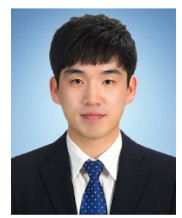
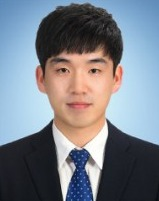
Update alumni photos and add degree periods

diff --git a/data.js b/data.js
@@ -254,17 +254,18 @@ const SITE = {
 
   /* ---------- 졸업생 (Alumni 페이지) ----------
      degree: 학위 (예: "석사 졸업") / period: 재학 기간 (예: "2022.03~2024.02") / topic: 연구실에서 한 연구 분야
+     학위가 둘 이상이면 degree, period 대신 degrees: [{ degree: "...", period: "..." }, { ... }] 로 적습니다 (성정환 참고)
      company: 현재 소속(취업한 곳) / job: 현재 하는 일
      logo: 회사 이름이 들어간 로고 그림. 있으면 회사 이름 글자 대신 로고가 나옵니다. 없으면 "" (글자로 표시) */
   alumniNote: "졸업생들은 배터리 소재 · 셀 · 완성차 등 이차전지 분야 주요 기업으로 진출했습니다.",
   alumni: [
-    { name: "박재영", degree: "석사 졸업", period: "", topic: "", company: "엘앤에프", logo: "images/logos/lnf-ci.png", job: "", photo: "images/people/park-jaeyoung.jpg" },
+    { name: "박재영", degree: "석사 졸업", period: "2016.03~2018.02", topic: "", company: "엘앤에프", logo: "images/logos/lnf-ci.png", job: "", photo: "images/people/park-jaeyoung.jpg" },
     { name: "김민주", degree: "석사 졸업", period: "2018.09~2020.09", topic: "", company: "롯데에너지머티리얼즈", logo: "images/logos/lotte-em.png", job: "", photo: "images/people/kim-minju.jpg" },
     { name: "조성찬", degree: "석사 졸업", period: "2019.09~2021.06", topic: "", company: "LG에너지솔루션", logo: "images/logos/lg-es.svg", job: "", photo: "images/people/cho-seongchan.jpg" },
     { name: "최익현", degree: "석사 졸업", period: "2020.03~2022.02", topic: "", company: "현대자동차", logo: "images/logos/hyundai-motor.svg", job: "", photo: "images/people/choi-ikhyeon.jpg" },
     { name: "홍정원", degree: "석사 졸업", period: "2021.09~2023.06", topic: "", company: "LG화학", logo: "images/logos/lg-chem.svg", job: "", photo: "images/people/hong-jeongwon.jpg" },
     { name: "조영수", degree: "석사 졸업", period: "2022.03~2024.02", topic: "", company: "LG에너지솔루션", logo: "images/logos/lg-es.svg", job: "", photo: "images/people/cho-youngsu.jpg" },
-    { name: "성정환", degree: "박사 졸업", period: "", topic: "", company: "SK On", logo: "images/logos/sk-on.png", job: "", photo: "images/people/seong-jeonghwan.jpg" },
+    { name: "성정환", degrees: [{ degree: "석사 졸업", period: "2018.03~2020.02" }, { degree: "박사 졸업", period: "2021.03~2025.02" }], topic: "", company: "SK On", logo: "images/logos/sk-on.png", job: "", photo: "images/people/seong-jeonghwan.jpg" },
   ],
 
   /* ---------- 특허 · 학회발표 ----------

diff --git a/style.css b/style.css
@@ -479,6 +479,7 @@ body[data-page="contact"] .footer-cta { display: none; }
 .alum-main b { display: block; font-size: 1.15rem; }
 .alum-main span { display: block; color: var(--blue); font-size: .88rem; font-weight: 500; }
 .alum-main span.period { color: var(--muted); font-weight: 400; }
+.alum-main .period + span { margin-top: 6px; }   /* 학위가 둘 이상일 때 묶음 사이 간격 */
 .alum dl { display: grid; grid-template-columns: 76px 1fr; gap: 4px 14px; margin: 0; padding-left: 22px; border-left: 1px solid var(--line); font-size: .92rem; }
 .alum dt { color: var(--muted); }
 .alum dd { margin: 0; }
@@ -624,7 +625,7 @@ body[data-page="contact"] .footer-cta { display: none; }
 }
 /* ---------- 졸업생: 모바일에서도 이름 바로 옆에 현 소속이 오도록 ---------- */
 @media (max-width: 760px) {
-  .alum { grid-template-columns: 52px 98px minmax(0, 1fr); gap: 12px; padding: 16px 4px; }   /* 이름 칸 폭을 고정해 세로선이 줄마다 같은 자리에 오게 함 */
+  .alum { grid-template-columns: 52px 104px minmax(0, 1fr); gap: 12px; padding: 16px 4px; }   /* 이름 칸 폭을 고정해 세로선이 줄마다 같은 자리에 오게 함 */
   .alum-main span.period { font-size: .74rem; }
   .alum .photo { width: 52px; height: 52px; }
   .alum-main b { font-size: 1.05rem; white-space: nowrap; }

diff --git a/main.js b/main.js
@@ -459,7 +459,7 @@
     $("alumniList").innerHTML = (SITE.alumniNote ? `<p class="alum-note">${esc(SITE.alumniNote)}</p>` : "") + SITE.alumni.map((a) => `
       <article class="alum">
         ${img(a.photo, a.name, "photo", "사진")}
-        <div class="alum-main"><b>${esc(a.name)}</b>${a.degree ? `<span>${esc(a.degree)}</span>` : ""}${a.period ? `<span class="period">${esc(a.period)}</span>` : ""}</div>
+        <div class="alum-main"><b>${esc(a.name)}</b>${(a.degrees || [a]).map((d) => (d.degree ? `<span>${esc(d.degree)}</span>` : "") + (d.period ? `<span class="period">${esc(d.period)}</span>` : "")).join("")}</div>
         <dl>${a.company ? `<dt>현 소속</dt><dd class="strong">${a.logo ? `<img class="alum-ci" src="${esc(a.logo)}" alt="${esc(a.company)}" title="${esc(a.company)}">` : `<span>${esc(a.company)}</span>`}</dd>` : ""}${row("연구 분야", a.topic)}${row("현재 업무", a.job)}</dl>
       </article>`).join("");
   }
